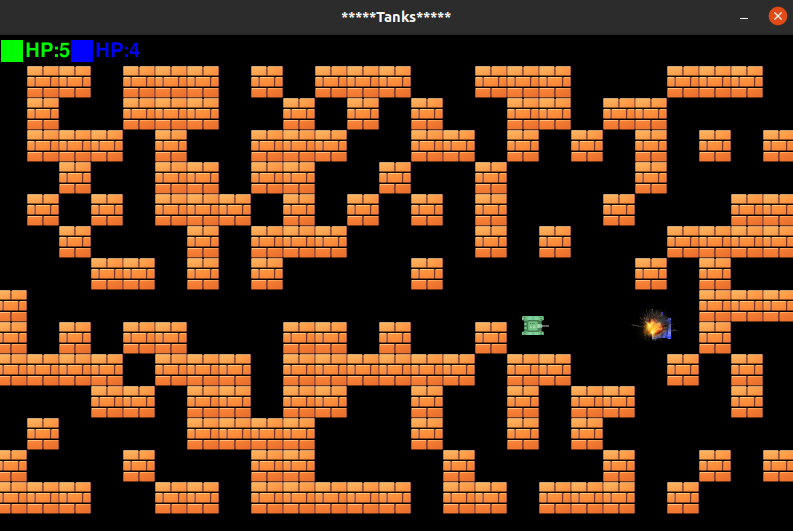
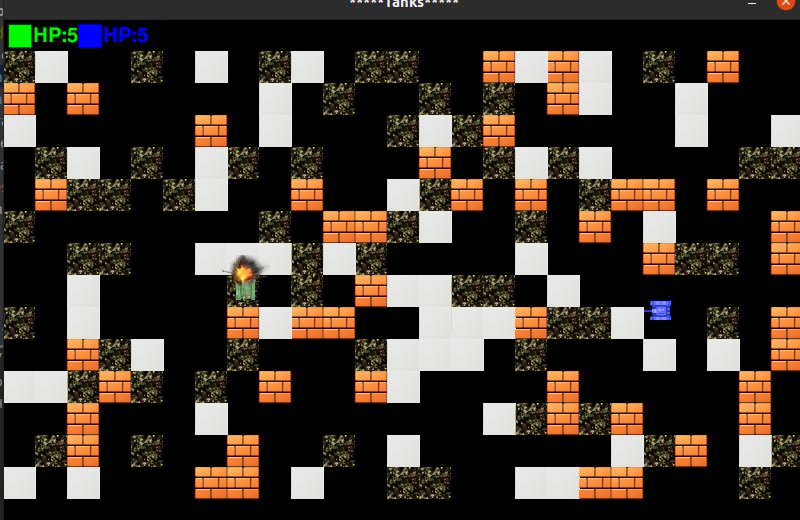
readme updated

diff --git a/README.md b/README.md
@@ -49,10 +49,12 @@ ___
 
 ____
 
-Кирпичные блоки имеют хрупкую струтуру и поэтому уничтожаются за один выстрел танка. При столкновении пули с объектом происходит взрыв с уничтожением пули и объекта столкновения: кирпичного блока(при столкновении с ним), танка(при условии что жизнь танка после попадания в него пули равна нулю)
+Кирпичные блоки имеют хрупкую струтуру и поэтому уничтожаются за один выстрел танка. При столкновении пули с объектом происходит взрыв с уничтожением пули и объекта столкновения: кирпичного блока(при столкновении с ним), танка(при условии что жизнь танка после попадания в него пули равна нулю).
+Кустарные блоки используются в качестве маскировки для танка. Они не могут быть повреждены попаданием снарядов и не являются преградой для танка.
 
-![](Tank/images/shot.png)
+![](Tank/images/liana.jpg)
 
+Железные же блоки обладают иммунитетам к выстрелам и не разрушимы. Используются в качестве укрытий от снарядов противника.
 
 ![](Tank/images/tank_shot.png)
 
@@ -106,8 +108,8 @@ ___
 ## **Детали разработки**
 
 Игра создавалась с помощью игрового модуля [Pygame](https://www.pygame.org), в среде разработки [VS Code](https://code.visualstudio.com). В основе игры лежит знаменитая игра [Battle City](https://ru.wikipedia.org/wiki/Battle_City)
-
-Проект состоит из семи отдельных файлов с исходным кодом. 
+При создании игры были соблюдены все принципы `SOLID` и были использованы такие шаблоны проектирования как `Factory`, `Singletone`.
+Проект состоит из семи отдельных файлов с исходным кодом.
 
 * В модуле `Tanks.py` описан вызов игры, меню и результатов в соответствующее время.
 * В модуле `factory.py` реализованы основные классы и функции для создания игровых объектов и их отрисовки на окне
